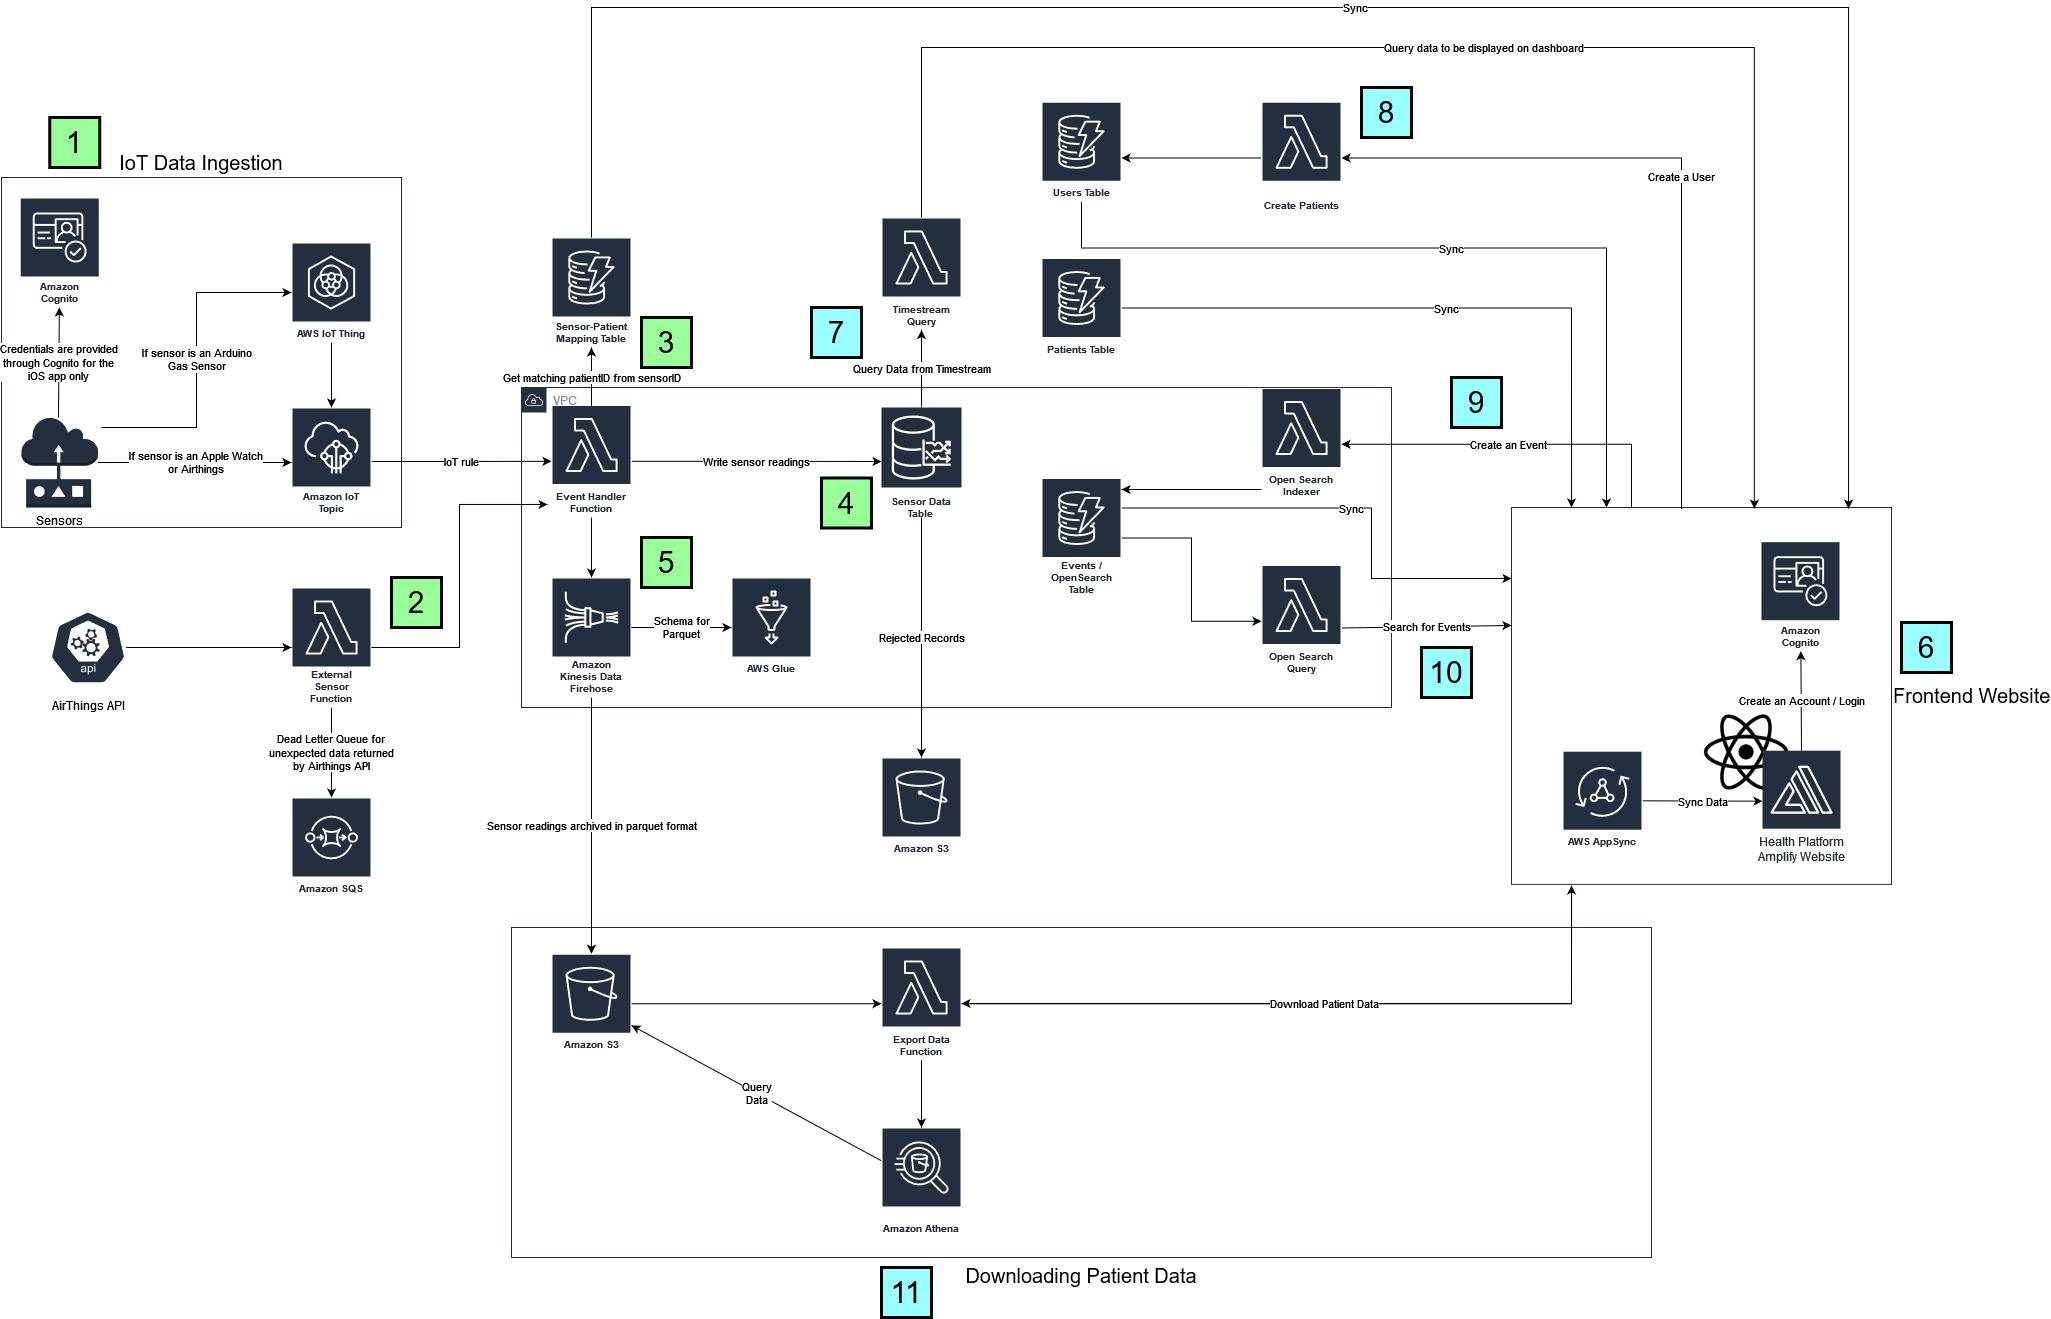
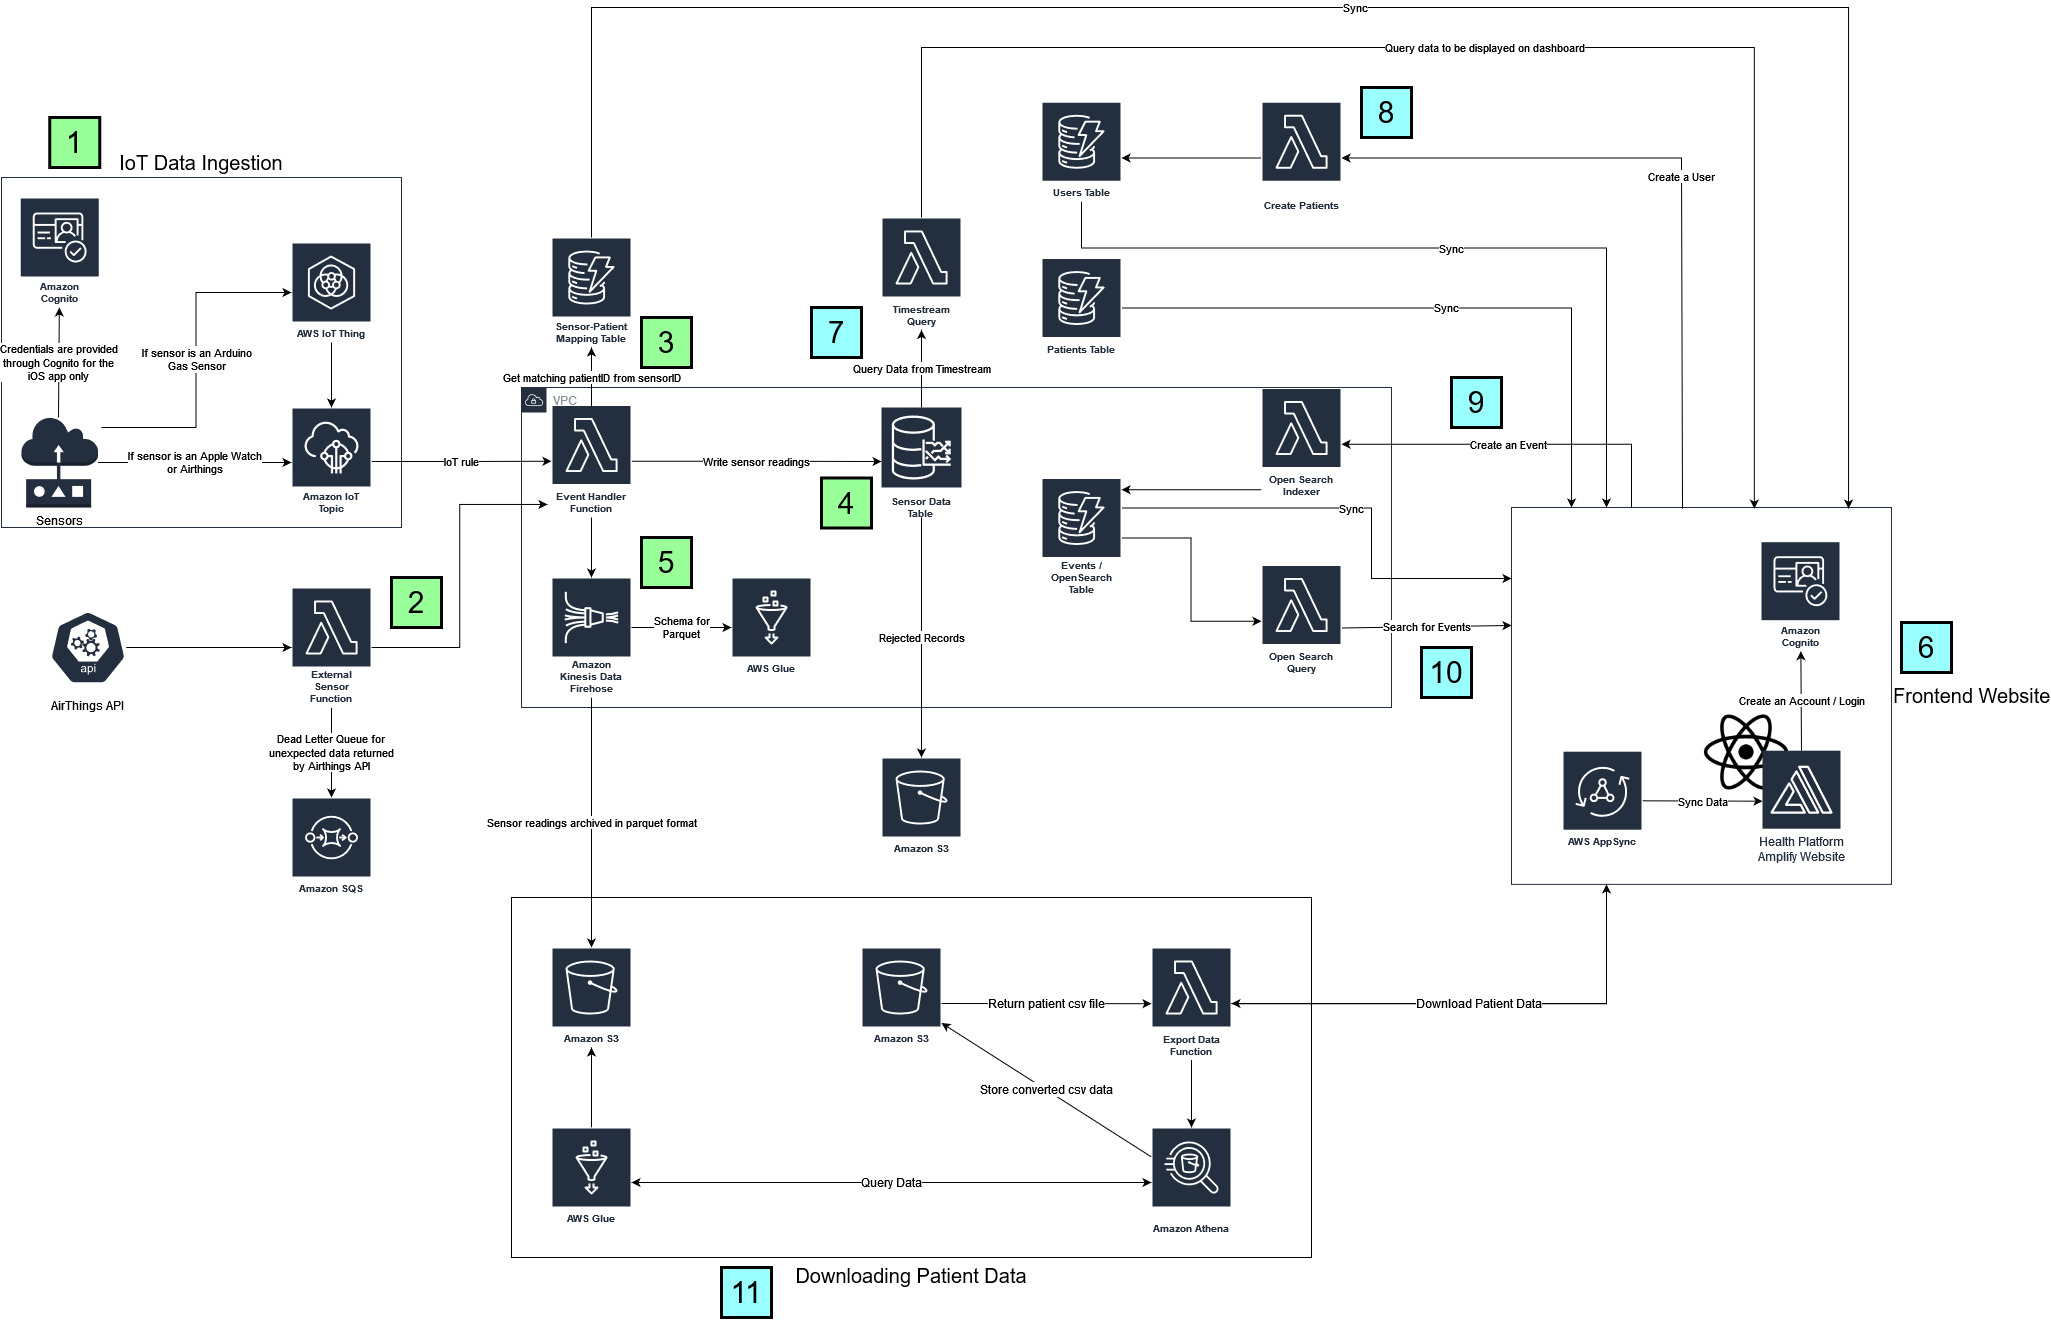
Updating documentation

diff --git a/docs/UserGuide.md b/docs/UserGuide.md
@@ -9,10 +9,9 @@
 | [Creating an Account and Account Options](#Creating-an-Account-and-Account-Options)          | Create an account for caregiver/admin access              |
 | [Main Dashboard](#Main-Dashboard)                                                            | How the main dashboard works                              |
 | [Add Events](#Add-Events)                                                                    | Adding any events                                         |
-| [Add Patients, Assign Caregivers and Sensors](#Add-Patients,-Assign-Caregivers-and-Sensors)  | Setting up patients for monitoring                        |
+| [Add Patients, Assign Caregivers, Assign Sensors, and Download Data](#Add-Patients,-Assign-Caregivers-and-Sensors)  | Setting up patients for monitoring                        |
 | [Manage Account User Types](#Manage-Account-User-Types)                                      | Manage account types                                      |
 | [Simulate Data](#Simulate-Data)                                                              | Simulate sensor data                                      |
-| [Download Data](#Download-Data)                                                              | Download patient data                                       |
 
 ## Creating an Account and Account Options
 
@@ -52,7 +51,7 @@ The events page displays all logged patient events found for the filters on the 
 
 After selecting the create event the user will see this window. Select the start and end time for the event, the patient for which the event occured, and fill in the remaining applicable information about the event. Finish by clicking the create button at the bottom right corner. Your event will show up in the main events page if you have the correct timeframe selected.
 
-## Add Patients, Assign Caregivers and Sensors
+## Add Patients, Assign Caregivers, Assign Sensors, and Download Data
 
 ![alt text](./images/dashboard_user_guide/patients_dashboard.PNG)
 
@@ -84,9 +83,16 @@ There are 3 types of sensors that are currently supported by the dashboard. The 
 
 - Airthings Wave Plus: Follow the deployment guide [here](https://github.com/UBC-CIC/health-platform/blob/main/docs/sensor_deployment/AirthingsDeployment.md).
 
+![alt text](./images/dashboard_user_guide/download_data_dashboard.png)
+
+
+To download a patient's data, simply click on Download Data -> Download File for any of the assigned patients. It will fetch the patient data and download the CSV file to your machine. Please note that if a patient's dataset is very large, this may take a while.
+
+![alt text](./images/dashboard_user_guide/csv_file_download.png)
+
 ## Manage Account User Types
 
-![alt text](./images//dashboard_user_guide/users_dashboard.PNG)
+![alt text](./images/dashboard_user_guide/users_dashboard.PNG)
 
 This page requires ADMIN permissions to access.
 
@@ -115,11 +121,3 @@ Use the edit user button to assign new accounts a role or change the role of a p
 This page requires ADMIN permissions to access.
 
 It may be inconvenient to populate data so, for development purposes, this page allows administrators to add simulated data for the provided sensor ID and patient.
-
-## Download Data
-![alt text](./images/dashboard_user_guide/download_data_dashboard.png)
-
-
-Simply click on Download Data -> Download File for any of the assigned patients. It will fetch the patient data and download the CSV file to your machine.
-
-![alt text](./images/dashboard_user_guide/csv_file_download.png)

diff --git a/docs/ArchitectureDeepDive.md b/docs/ArchitectureDeepDive.md
@@ -1,12 +1,14 @@
 # Backend and Frontend Stack Deep Dive
 
-### Architecture
+## Architecture
 
 ![alt text](./images/pacific-autism-architecture.jpg)
 
-### Description
+## Description
 
 The Architecture diagram gives an insight into two different event flows, how sensor data is ingested after being receved by IoT, and how user initiated events from the frontend dashboard are processed. Green numbers indicate Event flow from IoT sensors while blue numbers indicate Event flow from user interaction with the frontend Health Platform website.
+
+### IoT Event Flow
 
 1. Sensor data is entered into the AWS cloud via Amazon IoT. If the data is coming from the iOS application, credentials for access to IoT are provided through a Cognito user pool. Permissions to access IoT for the Arduino Gas Sensor and Airthings device are granted through certificates and private keys. If the device connecting to IoT is an Arduino Gas Sensor, it connects to an IoT thing with corresponding certificates and keys before sending the data, which is then selected based on its specified topic. Data coming from the iOS application and Airthings device is directly selected.
 
@@ -17,6 +19,8 @@ The Architecture diagram gives an insight into two different event flows, how se
 4. The data along with the matching patient ID is written into the Timestream database. In the case that the record is rejected, the data will be sent to a rejected records S3 bucket instead.
 
 5. The data along with the matching patient ID is converted to parquet format via Kinesis Firehose and the conversion schema is stored in a Glue table. The parquet file is saved in an S3 bucket with the path data/year/month/day/hour/{filename}.
+
+### UI User Initiated Event Flow
 
 6. The frontend Amplify website is built with React and is the user interface that all users (admins and caregivers) will interact with. Accounts are created and logged into using a Cognito user pool. Data that is displayed and edited with the frontend website is synced to the backend using AppSync.
 

diff --git a/webapp/README.md b/webapp/README.md
@@ -15,11 +15,20 @@ Before you start deploying, you must have the following dependencies:
 - Install the [AWS CLI](https://aws.amazon.com/cli/) tool.
 - Install the [AWS CDK](https://docs.aws.amazon.com/cdk/latest/guide/cli.html) CLI tool.
 - Install the [Amplify CLI](https://docs.amplify.aws/cli) tool.
+
+If you do not currently have a configured AWS Account, configure an account with the following instructions:
+
 - Configure the AWS CLI tool for your AWS Account in the `us-west-2` region, using a user with programmatic access and the "AdministratorAccess" policy (moving forward, we will assume you have [configured a profile](https://awscli.amazonaws.com/v2/documentation/api/latest/reference/configure/index.html) called `health-platform`):
   > `aws configure --profile health-platform`
 
+If you already have a configured AWS account, you may use your own configured account to deploy. Please note that if you decide to use your own account to deploy, be sure to change our command line commands to use your profile whenever there is a ```--profile``` command.
+```
+--profile YOUR_AWS_PROFILE_HERE
+```
+
 ## Clone The Repository
 
+### Option 1: Clone through the Command Line
 First, clone the github repository onto your machine. To do this:
 1. Create a folder on your desktop to contain the code.
 2. Open terminal (or command prompt if on windows) and **cd** into the created folder.
@@ -29,6 +38,13 @@ git clone https://github.com/UBC-CIC/health-platform.git
 ```
 
 The code should now be in the above folder. Now navigate into the webapp folder by running the following command:
+```
+cd webapp
+```
+### Option 2: Clone through an IDE
+Using your preferred IDE, paste the git link https://github.com/UBC-CIC/health-platform.git to clone the repository.
+
+This will clone the repository and create a folder for the project. Now navigate into the webapp folder by running the following command:
 ```
 cd webapp
 ```

diff --git a/webapp/backend/README.md b/webapp/backend/README.md
@@ -12,6 +12,11 @@ The `backend` folder contains AWS CDK stacks and AWS Lambda function code that w
 ## Step 1: Install Dependencies
 Ensure you are in the backend directory, then install the core dependencies:
 ```
+npm install
+```
+
+If this command gives you an error, run the following command instead:
+```
 npm install -g npm@6.14.15
 ```
 
